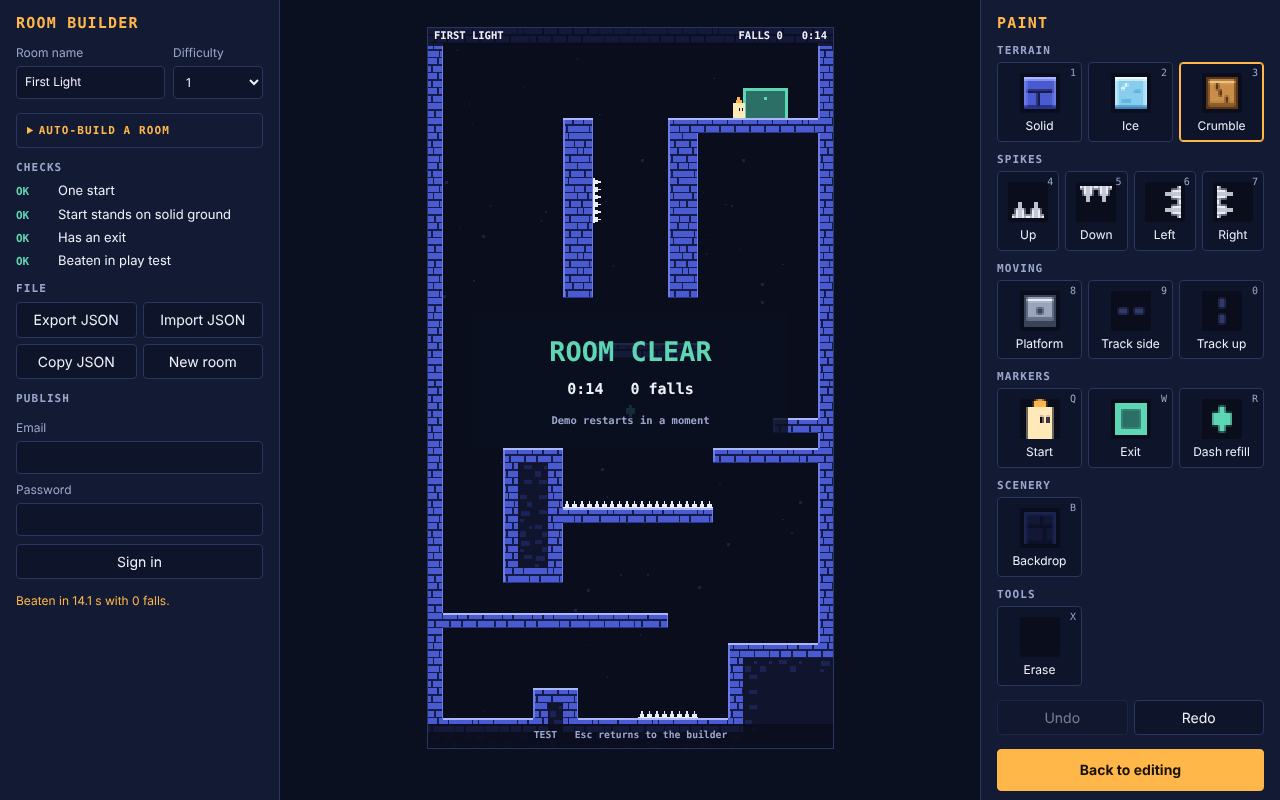
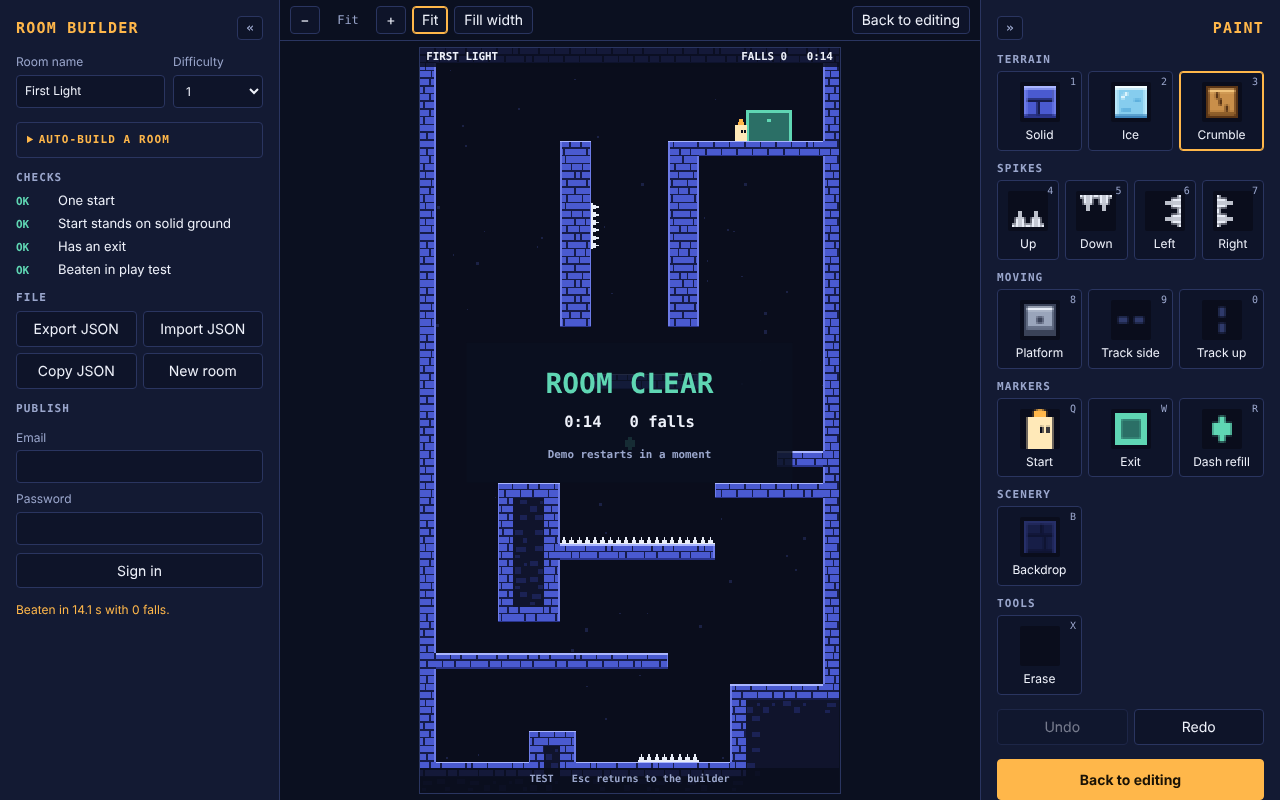
Builder: collapsible side panels and room zoom
Both rails collapse to a thin strip ([ and ] keys). The room now fits
the window exactly instead of snapping to half steps, with zoom in/out,
Fit and Fill width (scrolls). Play test button added to the top bar.
View choices are remembered per browser.

Claude-Session: https://claude.ai/code/session_01NZkKt2otoYDRNuWNpVBUzY

diff --git a/builder/index.html b/builder/index.html
@@ -56,18 +56,27 @@
   #checks .mark { font: 700 11px Menlo, monospace; width: 34px; flex: none; }
   #checks .pass .mark { color: var(--ok); } #checks .fail .mark { color: var(--bad); }
   #status { min-height: 18px; font-size: 12px; color: var(--accent); margin: 0; }
-  main { flex: 1; min-width: 0; display: flex; flex-direction: column; align-items: center; justify-content: center; gap: 8px; padding: 12px; }
+  main { flex: 1; min-width: 0; min-height: 0; display: flex; flex-direction: column; }
+  #bar { flex: none; display: flex; align-items: center; gap: 6px; padding: 6px 10px; border-bottom: 1px solid var(--line); }
+  #bar button { padding: 3px 9px; min-width: 30px; }
+  #zlabel { font: 12px Menlo, Consolas, monospace; color: var(--dim); min-width: 44px; text-align: center; }
+  #scroll { flex: 1; min-height: 0; overflow: auto; display: flex; padding: 6px; }
+  #scroll > #board { margin: auto; flex: none; }
+  .rail-head { display: flex; align-items: center; justify-content: space-between; gap: 8px; }
+  .rail-toggle { padding: 2px 8px; font: 700 13px/1.4 Menlo, Consolas, monospace; color: var(--dim); }
+  aside.collapsed { width: 38px !important; padding: 10px 4px; overflow: hidden; align-items: center; }
+  aside.collapsed > *:not(.rail-head), aside.collapsed .rail-head h1 { display: none !important; }
   #board { position: relative; border: 1px solid var(--line); background: #0a0d1c; }
   #grid { display: block; cursor: crosshair; }
   #game { position: absolute; inset: 0; width: 100%; height: 100%; border: 0; background: #0b1020; }
-  #coords { font: 12px Menlo, Consolas, monospace; color: var(--dim); margin: 0; height: 16px; }
+  #coords { font: 12px Menlo, Consolas, monospace; color: var(--dim); margin: 0 0 0 auto; }
   [hidden] { display: none !important; }
 </style>
 </head>
 <body>
 <div id="app">
-  <aside>
-    <h1>Room Builder</h1>
+  <aside id="rail">
+    <div class="rail-head"><h1>Room Builder</h1><button class="rail-toggle" data-rail="rail" title="Hide or show this panel ( [ )" aria-label="Hide or show the room panel">&laquo;</button></div>
     <div class="two">
       <label>Room name <input type="text" id="name" maxlength="40"></label>
       <label>Difficulty
@@ -142,11 +151,19 @@
     <p id="status" role="status"></p>
   </aside>
   <main>
-    <div id="board"><canvas id="grid"></canvas><iframe id="game" title="Play test" hidden></iframe></div>
-    <p id="coords"></p>
+    <div id="bar">
+      <button id="z-out" title="Zoom out ( - )" aria-label="Zoom out">&minus;</button>
+      <span id="zlabel">Fit</span>
+      <button id="z-in" title="Zoom in ( + )" aria-label="Zoom in">+</button>
+      <button id="z-fit" title="Fit the room to the window ( F )">Fit</button>
+      <button id="z-wide" title="Fill the width and scroll ( G )">Fill width</button>
+      <p id="coords"></p>
+      <button id="play2" title="Play test this room">Play test</button>
+    </div>
+    <div id="scroll"><div id="board"><canvas id="grid"></canvas><iframe id="game" title="Play test" hidden></iframe></div></div>
   </main>
   <aside id="paint">
-    <h1>Paint</h1>
+    <div class="rail-head"><button class="rail-toggle" data-rail="paint" title="Hide or show this panel ( ] )" aria-label="Hide or show the paint panel">&raquo;</button><h1>Paint</h1></div>
     <div id="palette"></div>
     <div class="row"><button id="undo">Undo</button><button id="redo">Redo</button></div>
     <button id="play" class="primary">Play test</button>
@@ -589,10 +606,17 @@
     }
   }
 
-  var canvas = $('grid'), ctx = canvas.getContext('2d'), zoom = 1, hover = null, box = null;
+  var canvas = $('grid'), ctx = canvas.getContext('2d'), zoom = 1, fitZoom = 1, zoomMode = 'fit', userZoom = 1, hover = null, box = null;
   function fit() {
-    var availH = window.innerHeight - 60, availW = window.innerWidth - 280 - (window.innerWidth > 1100 ? 300 : 0) - 30;
-    zoom = Math.max(1, Math.floor(Math.min(availH / (ROWS * T), availW / (COLS * T)) * 2) / 2);
+    var sc = $('scroll'), availH = sc.clientHeight - 14, availW = sc.clientWidth - 14;
+    var fitH = availH / (ROWS * T), fitW = availW / (COLS * T);
+    fitZoom = Math.max(0.5, Math.min(fitH, fitW));
+    var mode = playing ? 'fit' : zoomMode;            // a play test always shows the whole room
+    if (mode === 'fit') zoom = fitZoom;
+    else if (mode === 'wide') zoom = Math.max(0.5, (availW - 16) / (COLS * T));   // leaves room for the scroll bar
+    else zoom = userZoom;
+    $('zlabel').textContent = zoomMode === 'fit' ? 'Fit' : Math.round(zoom * 100) + '%';
+    $('z-fit').setAttribute('aria-pressed', zoomMode === 'fit'); $('z-wide').setAttribute('aria-pressed', zoomMode === 'wide');
     var dpr = window.devicePixelRatio || 1;
     canvas.style.width = (COLS * T * zoom) + 'px'; canvas.style.height = (ROWS * T * zoom) + 'px';
     canvas.width = Math.round(COLS * T * zoom * dpr); canvas.height = Math.round(ROWS * T * zoom * dpr);
@@ -716,12 +740,12 @@
     var list = runChecks();
     if (!list[0].ok) { say('Place exactly one start before testing.'); return; }
     playing = true; say('Playing. Press Esc to return to editing.');
-    $('play').textContent = 'Back to editing';
-    frame.hidden = false; frame.src = '../index.html';
+    $('play').textContent = $('play2').textContent = 'Back to editing';
+    fit(); frame.hidden = false; frame.src = '../index.html';
   }
   function stopPlay() {
-    playing = false; frame.hidden = true; frame.src = 'about:blank';
-    $('play').textContent = 'Play test';
+    playing = false; frame.hidden = true; frame.src = 'about:blank'; fit();
+    $('play').textContent = $('play2').textContent = 'Play test';
     if ($('status').textContent.indexOf('Playing') === 0) say('');
   }
   window.addEventListener('message', function (e) {
@@ -747,7 +771,7 @@
     saveDraft(); refresh(); say(note || '');
   }
 
-  $('play').addEventListener('click', function () { if (playing) stopPlay(); else startPlay(); });
+  [$('play'), $('play2')].forEach(function (b) { b.addEventListener('click', function () { if (playing) stopPlay(); else startPlay(); }); });
   $('undo').addEventListener('click', undo);
   $('redo').addEventListener('click', redo);
   $('export').addEventListener('click', exportFile);
@@ -806,6 +830,44 @@
     for (var i = 0; i < TILES.length; i++) if (TILES[i][2] === key) { pick(TILES[i][0]); break; }
   });
   window.addEventListener('resize', fit);
+
+  // ---- view: zoom and collapsible side panels (remembered on this computer) ----
+  var VIEW_KEY = 'climber.builder.view.v1';
+  function saveView() { try { localStorage.setItem(VIEW_KEY, JSON.stringify({ mode: zoomMode, zoom: userZoom, rail: $('rail').classList.contains('collapsed'), paint: $('paint').classList.contains('collapsed') })); } catch (e) {} }
+  function setZoom(mode, z) {
+    zoomMode = mode;
+    if (mode === 'user') userZoom = Math.max(0.5, Math.min(6, Math.round(z * 4) / 4));
+    fit(); saveView();
+  }
+  function zoomBy(dir) { var z = dir > 0 ? Math.floor(zoom * 4 + 1.001) / 4 : Math.ceil(zoom * 4 - 1.001) / 4; setZoom('user', z); }
+  function setRail(id, shut) {
+    var el = $(id), btn = el.querySelector('.rail-toggle'), left = id === 'rail';
+    el.classList.toggle('collapsed', shut);
+    btn.innerHTML = (left ? !shut : shut) ? '&laquo;' : '&raquo;';
+    btn.setAttribute('aria-expanded', !shut);
+    fit();
+  }
+  $('z-in').addEventListener('click', function () { zoomBy(1); });
+  $('z-out').addEventListener('click', function () { zoomBy(-1); });
+  $('z-fit').addEventListener('click', function () { setZoom('fit'); });
+  $('z-wide').addEventListener('click', function () { setZoom('wide'); });
+  $('scroll').addEventListener('wheel', function (e) { if (e.ctrlKey || e.metaKey) { e.preventDefault(); zoomBy(e.deltaY < 0 ? 1 : -1); } }, { passive: false });
+  Array.prototype.forEach.call(document.querySelectorAll('.rail-toggle'), function (b) {
+    b.addEventListener('click', function () { var id = b.dataset.rail; setRail(id, !$(id).classList.contains('collapsed')); saveView(); });
+  });
+  window.addEventListener('keydown', function (e) {
+    if (e.target.tagName === 'INPUT' || e.target.tagName === 'SELECT' || e.target.tagName === 'TEXTAREA' || e.metaKey || e.ctrlKey || e.altKey || playing) return;
+    if (e.key === '+' || e.key === '=') zoomBy(1);
+    else if (e.key === '-' || e.key === '_') zoomBy(-1);
+    else if (e.key === 'f' || e.key === 'F') setZoom('fit');
+    else if (e.key === 'g' || e.key === 'G') setZoom('wide');
+    else if (e.key === '[') { setRail('rail', !$('rail').classList.contains('collapsed')); saveView(); }
+    else if (e.key === ']') { setRail('paint', !$('paint').classList.contains('collapsed')); saveView(); }
+  });
+  function restoreView() { try {
+    var view = JSON.parse(localStorage.getItem(VIEW_KEY));
+    if (view) { zoomMode = view.mode || 'fit'; userZoom = view.zoom || 1; if (view.rail) setRail('rail', true); if (view.paint) setRail('paint', true); }
+  } catch (e) {} }
 
   // ---- publishing: drafts stay private, Publish makes a room live, and any saved version can be made live again ----
   var SKEY = 'climber.builder.session.v1', DBKEY = 'climber.builder.room.v1';
@@ -931,6 +993,7 @@
   try { draft = JSON.parse(localStorage.getItem(DRAFT_KEY)); } catch (e) {}
   try { load(draft || JSON.parse($('starter').textContent), draft ? 'Picked up your last draft.' : ''); }
   catch (e) { load(JSON.parse($('starter').textContent), ''); }
+  restoreView();
   fit();
 })();
 </script>

diff --git a/src/builder-template.html b/src/builder-template.html
@@ -56,18 +56,27 @@
   #checks .mark { font: 700 11px Menlo, monospace; width: 34px; flex: none; }
   #checks .pass .mark { color: var(--ok); } #checks .fail .mark { color: var(--bad); }
   #status { min-height: 18px; font-size: 12px; color: var(--accent); margin: 0; }
-  main { flex: 1; min-width: 0; display: flex; flex-direction: column; align-items: center; justify-content: center; gap: 8px; padding: 12px; }
+  main { flex: 1; min-width: 0; min-height: 0; display: flex; flex-direction: column; }
+  #bar { flex: none; display: flex; align-items: center; gap: 6px; padding: 6px 10px; border-bottom: 1px solid var(--line); }
+  #bar button { padding: 3px 9px; min-width: 30px; }
+  #zlabel { font: 12px Menlo, Consolas, monospace; color: var(--dim); min-width: 44px; text-align: center; }
+  #scroll { flex: 1; min-height: 0; overflow: auto; display: flex; padding: 6px; }
+  #scroll > #board { margin: auto; flex: none; }
+  .rail-head { display: flex; align-items: center; justify-content: space-between; gap: 8px; }
+  .rail-toggle { padding: 2px 8px; font: 700 13px/1.4 Menlo, Consolas, monospace; color: var(--dim); }
+  aside.collapsed { width: 38px !important; padding: 10px 4px; overflow: hidden; align-items: center; }
+  aside.collapsed > *:not(.rail-head), aside.collapsed .rail-head h1 { display: none !important; }
   #board { position: relative; border: 1px solid var(--line); background: #0a0d1c; }
   #grid { display: block; cursor: crosshair; }
   #game { position: absolute; inset: 0; width: 100%; height: 100%; border: 0; background: #0b1020; }
-  #coords { font: 12px Menlo, Consolas, monospace; color: var(--dim); margin: 0; height: 16px; }
+  #coords { font: 12px Menlo, Consolas, monospace; color: var(--dim); margin: 0 0 0 auto; }
   [hidden] { display: none !important; }
 </style>
 </head>
 <body>
 <div id="app">
-  <aside>
-    <h1>Room Builder</h1>
+  <aside id="rail">
+    <div class="rail-head"><h1>Room Builder</h1><button class="rail-toggle" data-rail="rail" title="Hide or show this panel ( [ )" aria-label="Hide or show the room panel">&laquo;</button></div>
     <div class="two">
       <label>Room name <input type="text" id="name" maxlength="40"></label>
       <label>Difficulty
@@ -142,11 +151,19 @@
     <p id="status" role="status"></p>
   </aside>
   <main>
-    <div id="board"><canvas id="grid"></canvas><iframe id="game" title="Play test" hidden></iframe></div>
-    <p id="coords"></p>
+    <div id="bar">
+      <button id="z-out" title="Zoom out ( - )" aria-label="Zoom out">&minus;</button>
+      <span id="zlabel">Fit</span>
+      <button id="z-in" title="Zoom in ( + )" aria-label="Zoom in">+</button>
+      <button id="z-fit" title="Fit the room to the window ( F )">Fit</button>
+      <button id="z-wide" title="Fill the width and scroll ( G )">Fill width</button>
+      <p id="coords"></p>
+      <button id="play2" title="Play test this room">Play test</button>
+    </div>
+    <div id="scroll"><div id="board"><canvas id="grid"></canvas><iframe id="game" title="Play test" hidden></iframe></div></div>
   </main>
   <aside id="paint">
-    <h1>Paint</h1>
+    <div class="rail-head"><button class="rail-toggle" data-rail="paint" title="Hide or show this panel ( ] )" aria-label="Hide or show the paint panel">&raquo;</button><h1>Paint</h1></div>
     <div id="palette"></div>
     <div class="row"><button id="undo">Undo</button><button id="redo">Redo</button></div>
     <button id="play" class="primary">Play test</button>
@@ -262,10 +279,17 @@
     }
   }
 
-  var canvas = $('grid'), ctx = canvas.getContext('2d'), zoom = 1, hover = null, box = null;
+  var canvas = $('grid'), ctx = canvas.getContext('2d'), zoom = 1, fitZoom = 1, zoomMode = 'fit', userZoom = 1, hover = null, box = null;
   function fit() {
-    var availH = window.innerHeight - 60, availW = window.innerWidth - 280 - (window.innerWidth > 1100 ? 300 : 0) - 30;
-    zoom = Math.max(1, Math.floor(Math.min(availH / (ROWS * T), availW / (COLS * T)) * 2) / 2);
+    var sc = $('scroll'), availH = sc.clientHeight - 14, availW = sc.clientWidth - 14;
+    var fitH = availH / (ROWS * T), fitW = availW / (COLS * T);
+    fitZoom = Math.max(0.5, Math.min(fitH, fitW));
+    var mode = playing ? 'fit' : zoomMode;            // a play test always shows the whole room
+    if (mode === 'fit') zoom = fitZoom;
+    else if (mode === 'wide') zoom = Math.max(0.5, (availW - 16) / (COLS * T));   // leaves room for the scroll bar
+    else zoom = userZoom;
+    $('zlabel').textContent = zoomMode === 'fit' ? 'Fit' : Math.round(zoom * 100) + '%';
+    $('z-fit').setAttribute('aria-pressed', zoomMode === 'fit'); $('z-wide').setAttribute('aria-pressed', zoomMode === 'wide');
     var dpr = window.devicePixelRatio || 1;
     canvas.style.width = (COLS * T * zoom) + 'px'; canvas.style.height = (ROWS * T * zoom) + 'px';
     canvas.width = Math.round(COLS * T * zoom * dpr); canvas.height = Math.round(ROWS * T * zoom * dpr);
@@ -389,12 +413,12 @@
     var list = runChecks();
     if (!list[0].ok) { say('Place exactly one start before testing.'); return; }
     playing = true; say('Playing. Press Esc to return to editing.');
-    $('play').textContent = 'Back to editing';
-    frame.hidden = false; frame.src = '../index.html';
+    $('play').textContent = $('play2').textContent = 'Back to editing';
+    fit(); frame.hidden = false; frame.src = '../index.html';
   }
   function stopPlay() {
-    playing = false; frame.hidden = true; frame.src = 'about:blank';
-    $('play').textContent = 'Play test';
+    playing = false; frame.hidden = true; frame.src = 'about:blank'; fit();
+    $('play').textContent = $('play2').textContent = 'Play test';
     if ($('status').textContent.indexOf('Playing') === 0) say('');
   }
   window.addEventListener('message', function (e) {
@@ -420,7 +444,7 @@
     saveDraft(); refresh(); say(note || '');
   }
 
-  $('play').addEventListener('click', function () { if (playing) stopPlay(); else startPlay(); });
+  [$('play'), $('play2')].forEach(function (b) { b.addEventListener('click', function () { if (playing) stopPlay(); else startPlay(); }); });
   $('undo').addEventListener('click', undo);
   $('redo').addEventListener('click', redo);
   $('export').addEventListener('click', exportFile);
@@ -479,6 +503,44 @@
     for (var i = 0; i < TILES.length; i++) if (TILES[i][2] === key) { pick(TILES[i][0]); break; }
   });
   window.addEventListener('resize', fit);
+
+  // ---- view: zoom and collapsible side panels (remembered on this computer) ----
+  var VIEW_KEY = 'climber.builder.view.v1';
+  function saveView() { try { localStorage.setItem(VIEW_KEY, JSON.stringify({ mode: zoomMode, zoom: userZoom, rail: $('rail').classList.contains('collapsed'), paint: $('paint').classList.contains('collapsed') })); } catch (e) {} }
+  function setZoom(mode, z) {
+    zoomMode = mode;
+    if (mode === 'user') userZoom = Math.max(0.5, Math.min(6, Math.round(z * 4) / 4));
+    fit(); saveView();
+  }
+  function zoomBy(dir) { var z = dir > 0 ? Math.floor(zoom * 4 + 1.001) / 4 : Math.ceil(zoom * 4 - 1.001) / 4; setZoom('user', z); }
+  function setRail(id, shut) {
+    var el = $(id), btn = el.querySelector('.rail-toggle'), left = id === 'rail';
+    el.classList.toggle('collapsed', shut);
+    btn.innerHTML = (left ? !shut : shut) ? '&laquo;' : '&raquo;';
+    btn.setAttribute('aria-expanded', !shut);
+    fit();
+  }
+  $('z-in').addEventListener('click', function () { zoomBy(1); });
+  $('z-out').addEventListener('click', function () { zoomBy(-1); });
+  $('z-fit').addEventListener('click', function () { setZoom('fit'); });
+  $('z-wide').addEventListener('click', function () { setZoom('wide'); });
+  $('scroll').addEventListener('wheel', function (e) { if (e.ctrlKey || e.metaKey) { e.preventDefault(); zoomBy(e.deltaY < 0 ? 1 : -1); } }, { passive: false });
+  Array.prototype.forEach.call(document.querySelectorAll('.rail-toggle'), function (b) {
+    b.addEventListener('click', function () { var id = b.dataset.rail; setRail(id, !$(id).classList.contains('collapsed')); saveView(); });
+  });
+  window.addEventListener('keydown', function (e) {
+    if (e.target.tagName === 'INPUT' || e.target.tagName === 'SELECT' || e.target.tagName === 'TEXTAREA' || e.metaKey || e.ctrlKey || e.altKey || playing) return;
+    if (e.key === '+' || e.key === '=') zoomBy(1);
+    else if (e.key === '-' || e.key === '_') zoomBy(-1);
+    else if (e.key === 'f' || e.key === 'F') setZoom('fit');
+    else if (e.key === 'g' || e.key === 'G') setZoom('wide');
+    else if (e.key === '[') { setRail('rail', !$('rail').classList.contains('collapsed')); saveView(); }
+    else if (e.key === ']') { setRail('paint', !$('paint').classList.contains('collapsed')); saveView(); }
+  });
+  function restoreView() { try {
+    var view = JSON.parse(localStorage.getItem(VIEW_KEY));
+    if (view) { zoomMode = view.mode || 'fit'; userZoom = view.zoom || 1; if (view.rail) setRail('rail', true); if (view.paint) setRail('paint', true); }
+  } catch (e) {} }
 
   // ---- publishing: drafts stay private, Publish makes a room live, and any saved version can be made live again ----
   var SKEY = 'climber.builder.session.v1', DBKEY = 'climber.builder.room.v1';
@@ -604,6 +666,7 @@
   try { draft = JSON.parse(localStorage.getItem(DRAFT_KEY)); } catch (e) {}
   try { load(draft || JSON.parse($('starter').textContent), draft ? 'Picked up your last draft.' : ''); }
   catch (e) { load(JSON.parse($('starter').textContent), ''); }
+  restoreView();
   fit();
 })();
 </script>
